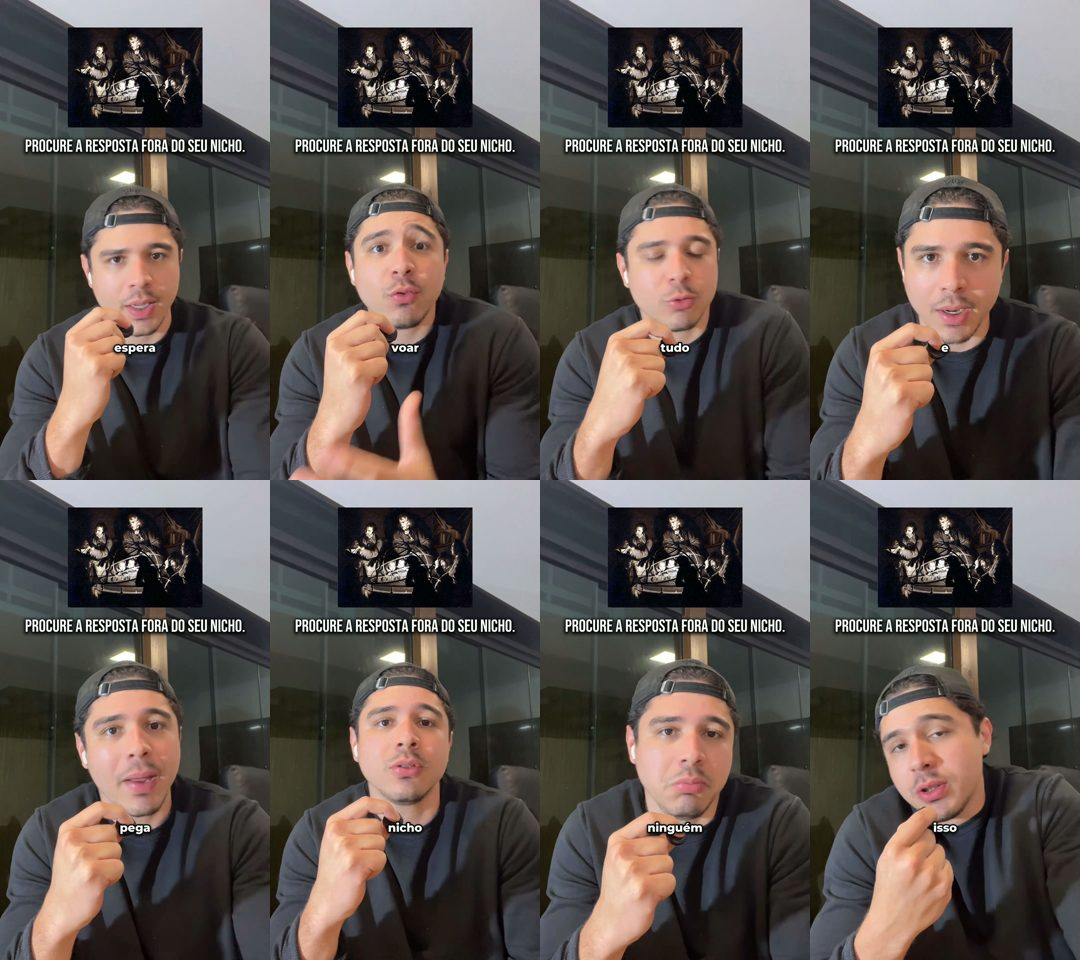
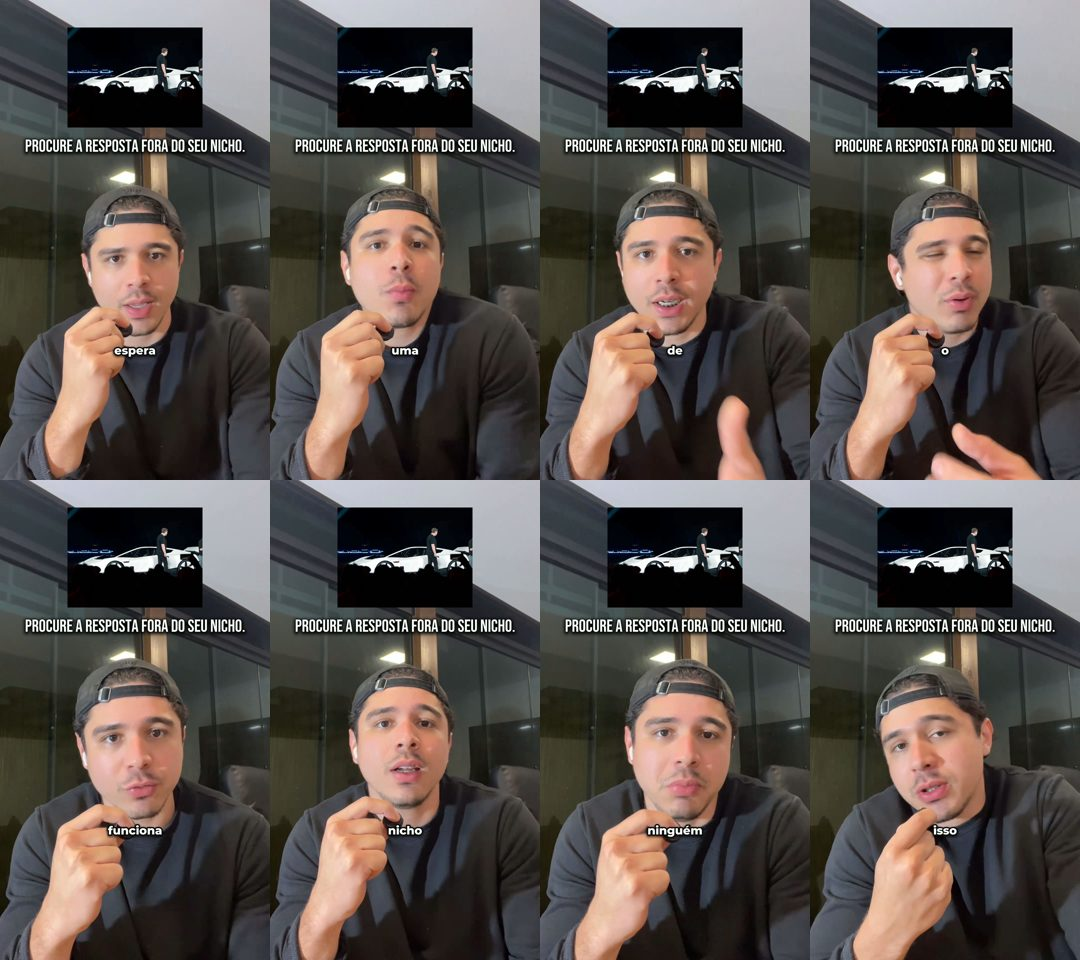
feat(conteudo): Roadster — topo com Elon e o carro, corte do 'foi aquela'; topo aceita arquivo local

diff --git a/tools/maquina/montar.py b/tools/maquina/montar.py
@@ -165,8 +165,9 @@ def montar(pasta):
                                capture_output=True, text=True).stdout.strip())
 
     topo = None
-    if plano.get("topo") and plano["topo"].get("url"):
-        im = Image.open(baixar(plano["topo"]["url"], os.path.join(work, "topo-orig")))
+    if plano.get("topo") and (plano["topo"].get("url") or plano["topo"].get("arquivo")):
+        im = Image.open(os.path.join(RAIZ, plano["topo"]["arquivo"]) if plano["topo"].get("arquivo")   # quadro de vídeo (17/10)
+                        else baixar(plano["topo"]["url"], os.path.join(work, "topo-orig")))
         topo = os.path.join(work, "topo.png")
         ImageOps.autocontrast(enquadrar(im, L, A), cutoff=1).save(topo)
     tit = os.path.join(work, "titulo.png")
